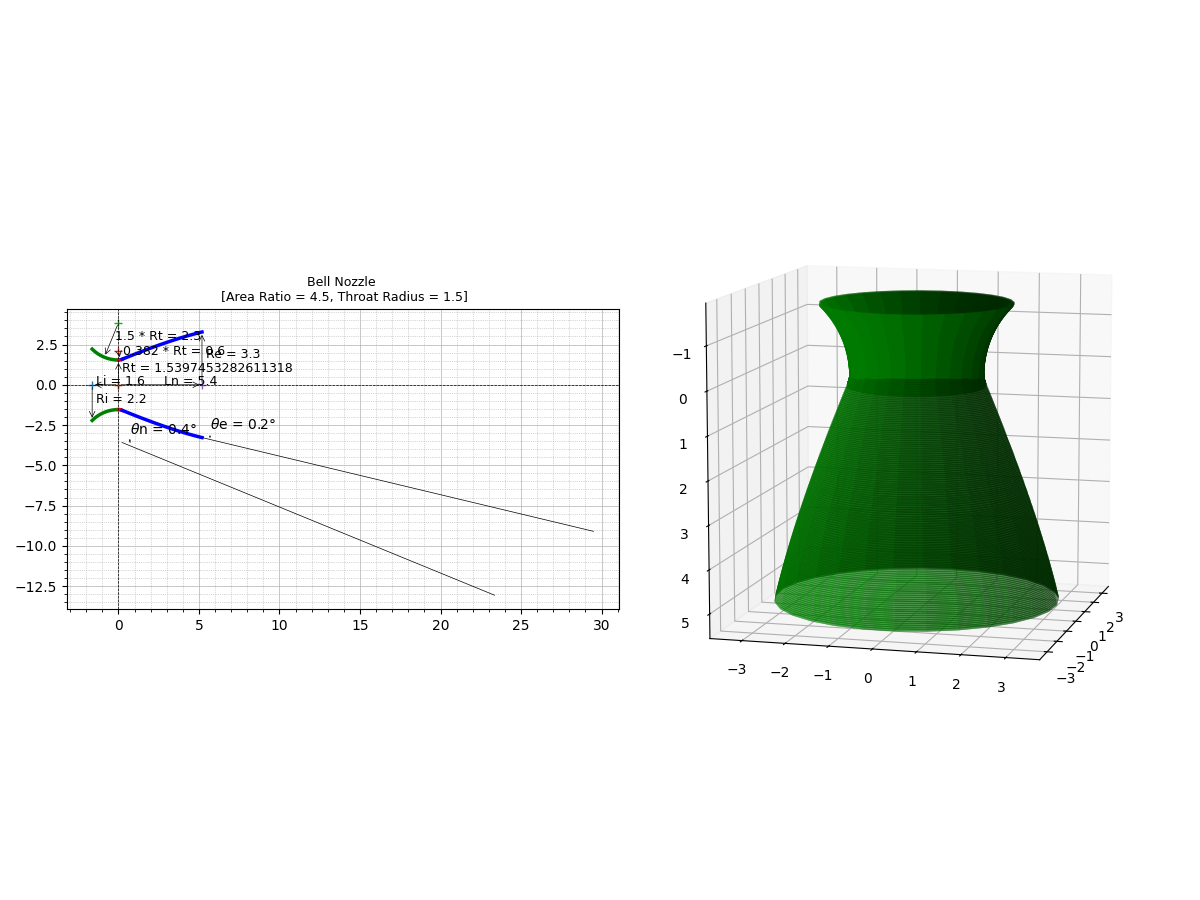
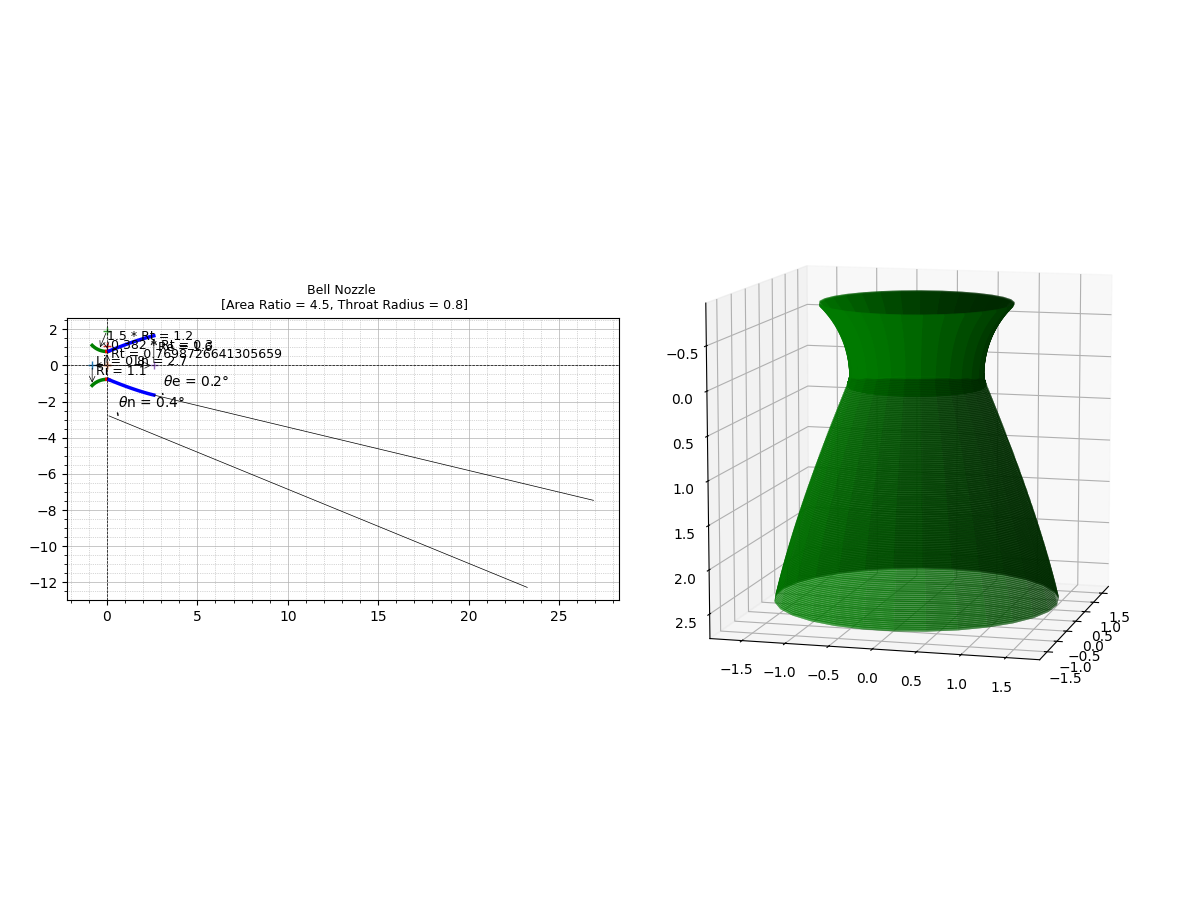
added to nozzle plots

diff --git a/bezier_curve_nozzle.py b/bezier_curve_nozzle.py
@@ -449,11 +449,12 @@ if __name__=="__main__":
 	# typical upper stage values
 	mass_flow = getMassFlow(40960 / getBurnTime(), getExhaustVelocity(isp))
 	aratio =  getOptimumExpansionRatio(T, k, 450, ambient)			# Ae / At	
-	throat_radius = getThroatDiameter(mass_flow, 450, molecular_mass, T, k)  # {'radius_throat': 40, 'radius_exit': 210}		
+	throat_radius = getThroatDiameter(mass_flow, 450, molecular_mass, T, k) / 2  # {'radius_throat': 40, 'radius_exit': 210}		
 
 	# rao_bell_nozzle_contour
 	angles, contour = bell_nozzle(k, aratio, throat_radius, l_percent)
 	# plot contour
 	title = 'Bell Nozzle \n [Area Ratio = ' + str(round(aratio,1)) + ', Throat Radius = ' + str(round(throat_radius,1)) + ']' 
 	plot(title, throat_radius, angles, contour)
+
 	print("done")
